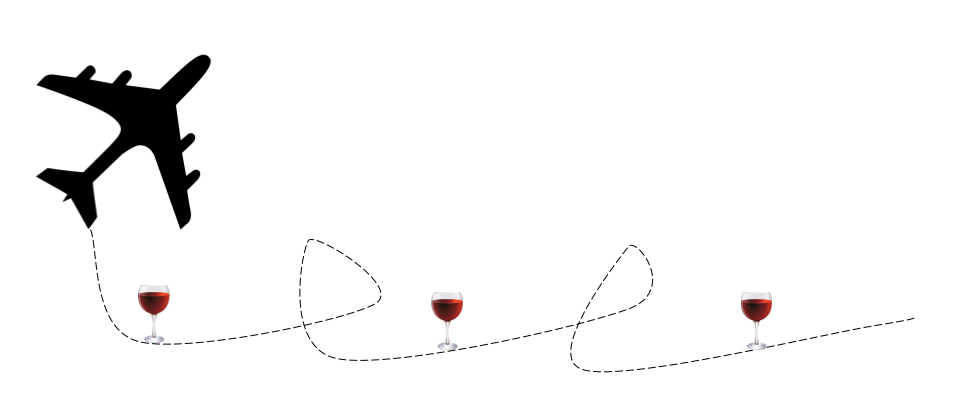
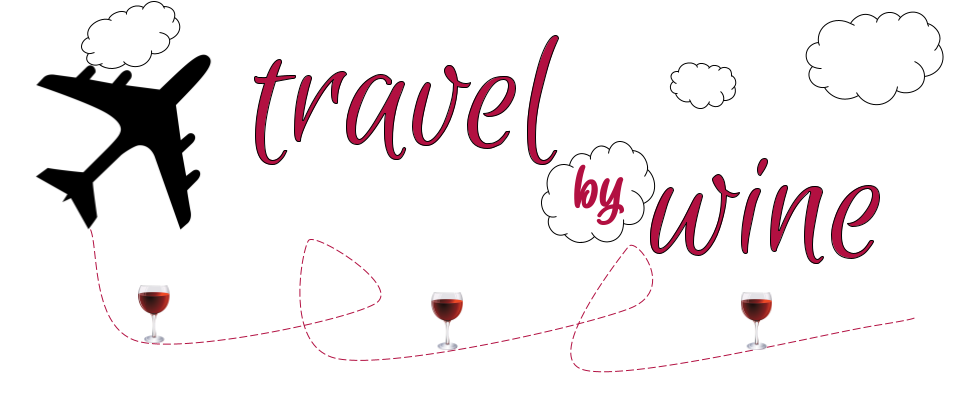
small output fixes

diff --git a/app/templates/search.html b/app/templates/search.html
@@ -60,9 +60,9 @@
                 <img class="wine" src="/static/images/wine_glass.png" />
                 <h3 class="output-header"> {{d.country}} </h3>
                 {% for w in d.details%}
-                <h4 class="output-header">{{w.province}} in {{d.country}} ({{w.similarity}}% match)</h4>
-                <p class="output-text">Based on your preferences, you should consider visiting <b>
-                        {{w.winery}}</b> and trying their <b>{{w.variety}}</b>.
+                <h4 class="output-header">{{w.province}} ({{w.similarity}}% match)</h4>
+                <p class="output-text">Based on your preferences, you should consider visiting the <b>
+                        {{w.winery}}</b> winery and trying their <b>{{w.variety}}</b>.
                     <br>
                     A wine reviewer has described this wine to have notes of:
                     "{{w.review}}"

diff --git a/app/static/css/main.css b/app/static/css/main.css
@@ -37,7 +37,7 @@ border: none
     justify-content: center;
     align-items: center;
     text-align: center;
-    background-image: url("/static/images/plane_wine2.png");
+    background-image: url("/static/images/plane_wine.png");
     background-size: contain;
     background-repeat: no-repeat;
     background-position: center;

diff --git a/app/irsystem/controllers/search_controller.py b/app/irsystem/controllers/search_controller.py
@@ -33,7 +33,7 @@ def search():
 		data = []
 		output_message = ''
 	else:
-		if len(countries) == 0:
+		if len(countries) == 0 or countries == "No preference":
 			country_text = "anywhere"
 		else:
 			country_text = countries
